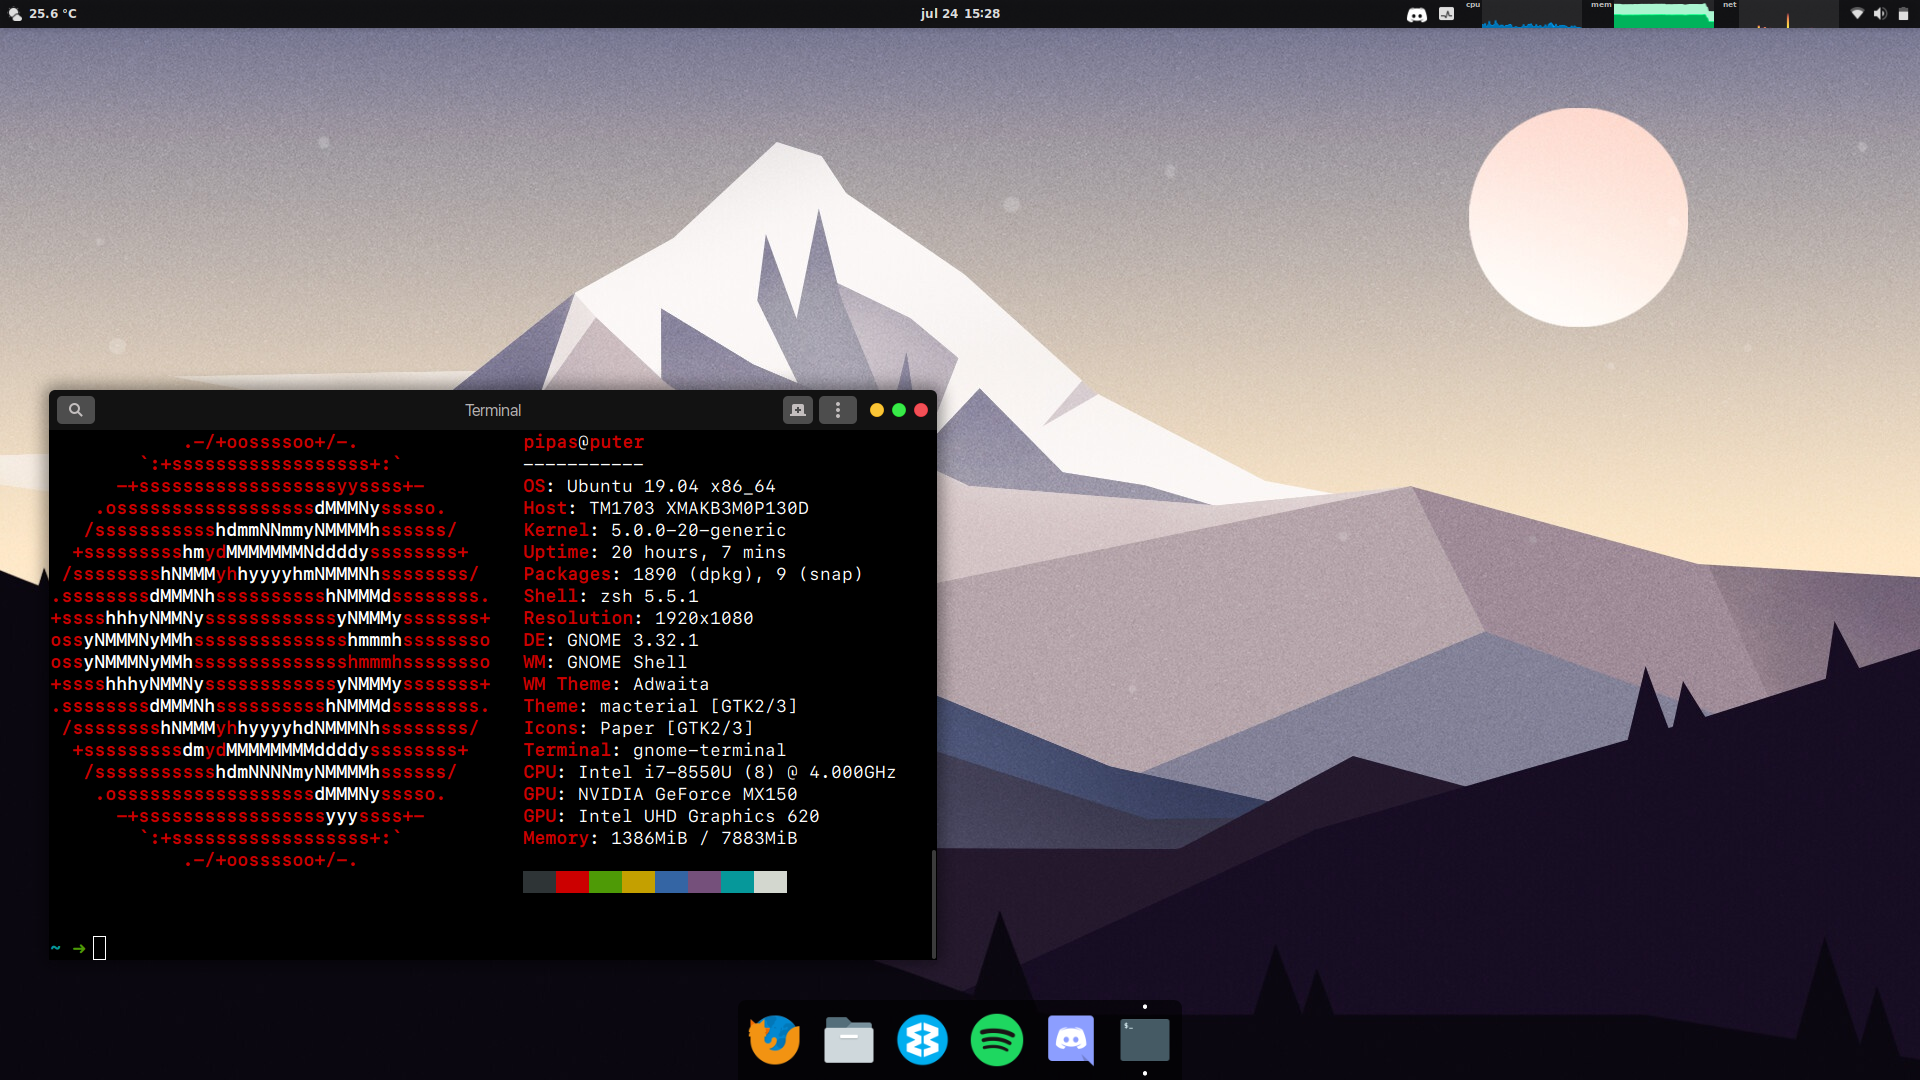
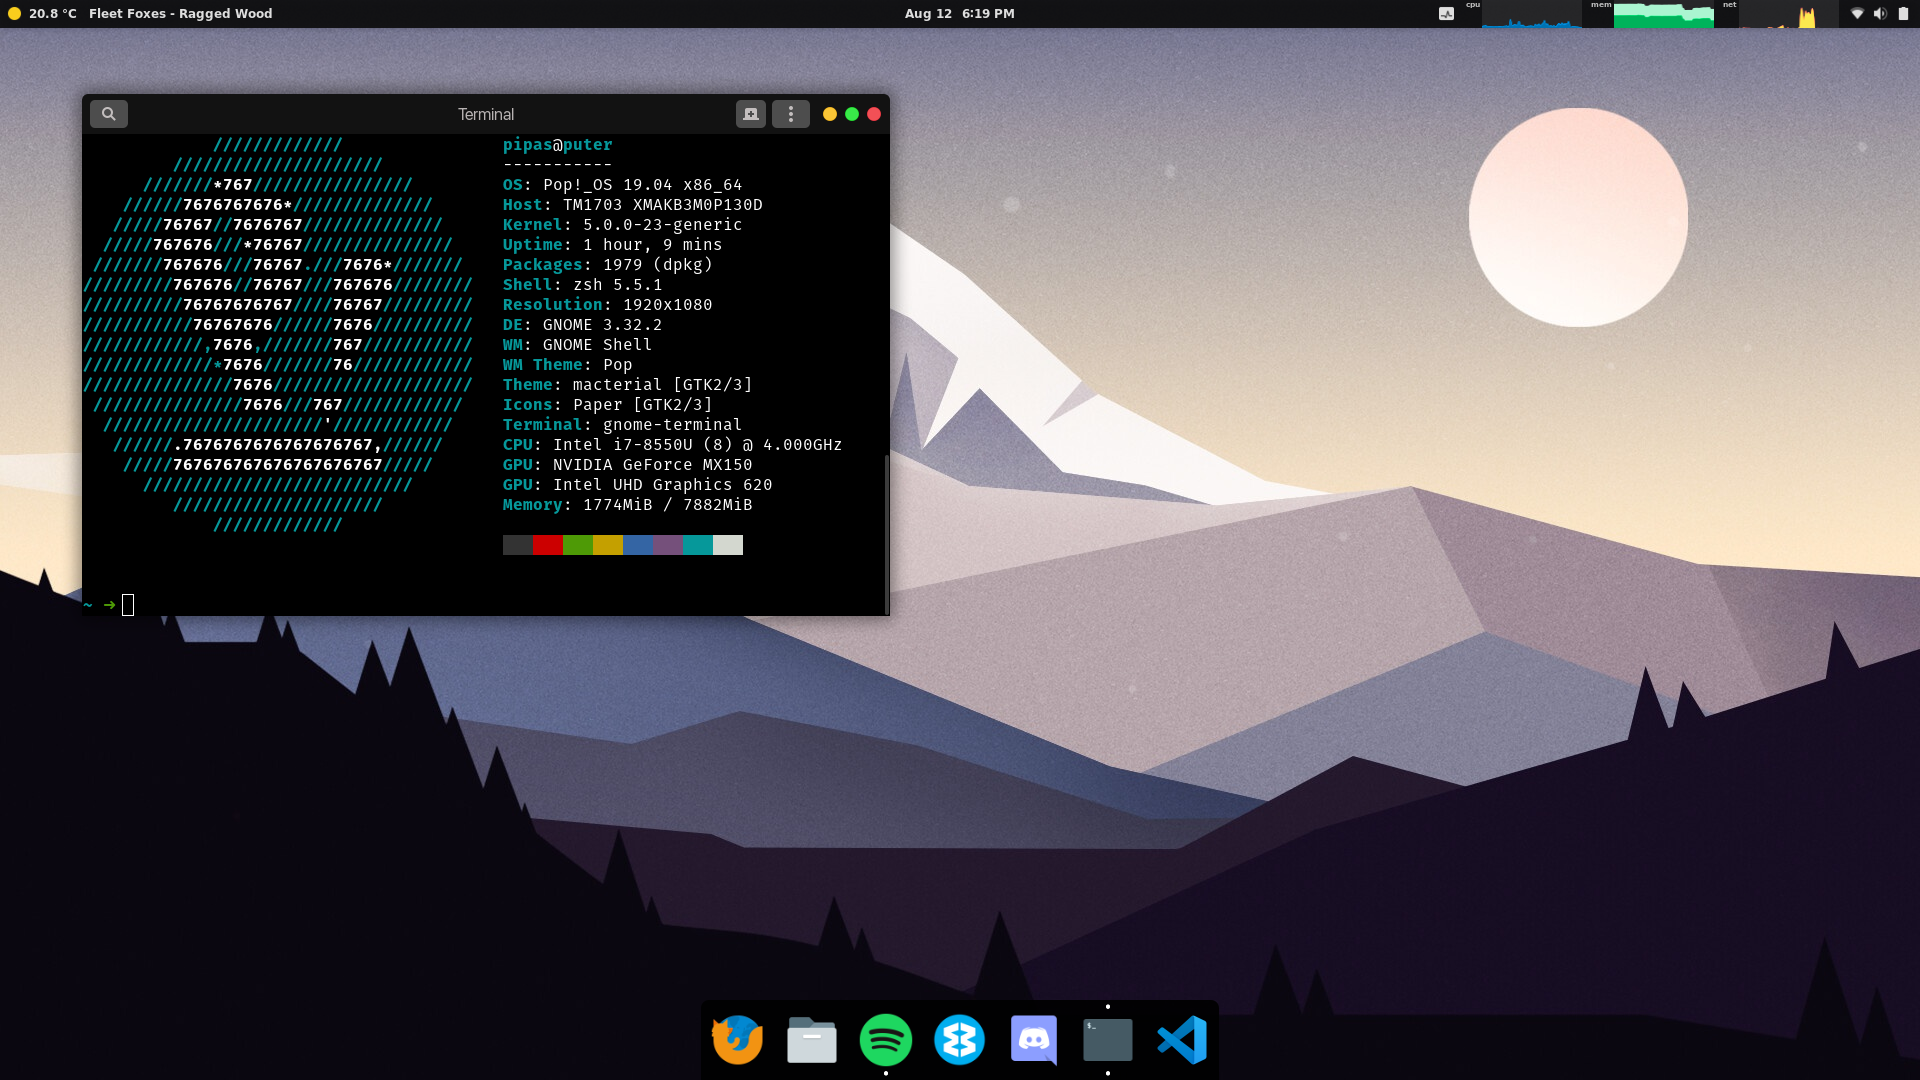
Update screenshots and add chromium to other software section

diff --git a/README.md b/README.md
@@ -29,7 +29,6 @@ If you'd also like to contribute to this repository in any way or suggest someth
   - [Terminal](#terminal)
   - [Development](#development)
   - [Other Software](#other-software)
-  - [Snap Software](#snap-software)
   - [Contributors](#contributors)
 
 ## Distro
@@ -217,6 +216,7 @@ If you are like me and you forget to copy your ssh keys [every](https://help.git
 - #### [VLC](https://www.videolan.org/vlc/index.html) - Free and open source cross-platform multimedia player and framework that plays most multimedia files.
 - #### [Deluge](https://deluge-torrent.org/) - Lightweight, free and cross-platform BitTorrent client.
 - #### [VS Code](https://code.visualstudio.com/) - Open source text editor with strong extension support.
+- #### [Chromium](https://www.chromium.org/) - Open source distribution of the Google Chrome browser, great for web development.
 - #### [CherryTree](https://www.giuspen.com/cherrytree/) - A hierarchical note taking application, featuring rich text and syntax highlighting, storing data in a single xml or sqlite file. [👥](https://github.com/Pipas/LinuxConfig/pull/3)
 - #### [KeeWeb](https://keeweb.info/) - Free cross-platform password manager compatible with KeePass. [👥](https://github.com/Pipas/LinuxConfig/pull/3)
 - #### [Intellij](https://www.jetbrains.com/idea/) - Integrated development environment (IDE) for developing computer software. [👥](https://github.com/Pipas/LinuxConfig/pull/3)
